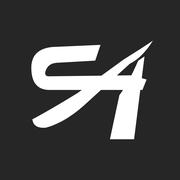
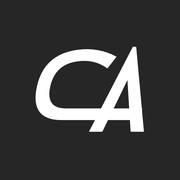
로고 수정: C 더 크게, A 를 확실한 A 모양으로 (기울인 CA 모노그램)

Changed region(s): [[0.1667, 0.2222, 0.8611, 0.7778]]

diff --git a/templates/base.html b/templates/base.html
@@ -37,14 +37,14 @@
   <meta property="og:image" content="{{ url_for('static', filename='img/og-image.png', _external=True) }}">
   <meta name="twitter:card" content="summary_large_image">
   {# ?v= 숫자를 바꾸면 브라우저가 예전 아이콘 캐시를 버리고 새로 받는다 #}
-  <link rel="icon" href="{{ url_for('static', filename='img/favicon-32.png') }}?v=6" type="image/png" sizes="32x32">
-  <link rel="icon" href="{{ url_for('static', filename='img/favicon-192.png') }}?v=6" type="image/png" sizes="192x192">
-  <link rel="apple-touch-icon" href="{{ url_for('static', filename='img/apple-touch-icon.png') }}?v=6">
+  <link rel="icon" href="{{ url_for('static', filename='img/favicon-32.png') }}?v=7" type="image/png" sizes="32x32">
+  <link rel="icon" href="{{ url_for('static', filename='img/favicon-192.png') }}?v=7" type="image/png" sizes="192x192">
+  <link rel="apple-touch-icon" href="{{ url_for('static', filename='img/apple-touch-icon.png') }}?v=7">
   <link rel="preconnect" href="https://fonts.googleapis.com">
   <link rel="preconnect" href="https://fonts.gstatic.com" crossorigin>
   {# 로고 글자 전용 폰트: 로고에 쓰는 글자만 받아서 아주 가볍다 #}
   <link rel="stylesheet" href="https://fonts.googleapis.com/css2?family=Montserrat:ital,wght@1,900&text=communactive&display=swap">
-  <link rel="stylesheet" href="{{ url_for('static', filename='css/style.css') }}?v=14">
+  <link rel="stylesheet" href="{{ url_for('static', filename='css/style.css') }}?v=15">
 </head>
 <body>
 {# 로고 옆 섹션 이름 (디시의 "dcinside | ○○ 갤러리" 처럼) #}

diff --git a/static/css/style.css b/static/css/style.css
@@ -752,8 +752,8 @@ a.nick:hover { text-decoration: underline; }
 
 /* ================= 로고 모노그램 ================= */
 .wordmark { display: inline-flex; align-items: center; }
-.logo-mark { display: inline-flex; width: 34px; margin-right: 9px; color: #fff; flex: 0 0 auto; }
+.logo-mark { display: inline-flex; width: 42px; margin-right: 9px; color: #fff; flex: 0 0 auto; }
 .logo-mark svg { width: 100%; height: auto; display: block; }
 .wordmark:hover .logo-mark { color: #fff; }
-@media (max-width: 640px) { .logo-mark { width: 28px; margin-right: 6px; } }
+@media (max-width: 640px) { .logo-mark { width: 34px; margin-right: 6px; } }
 .wordmark .logo-mark, .wordmark:hover .logo-mark { color: #fff; }
